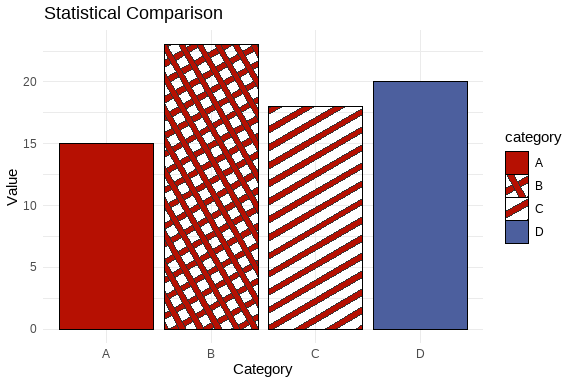
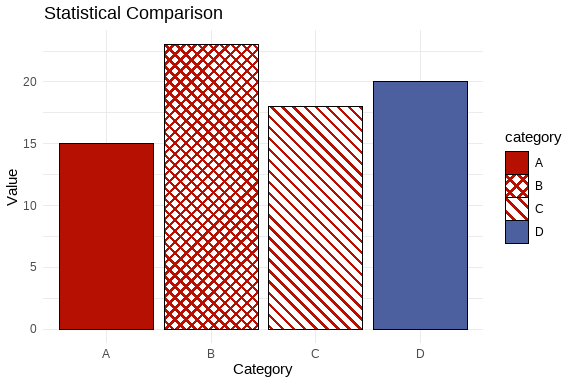
README and Getting Started vignette: use scale_cheysson()
README: "New here" now introduces scale_cheysson() and swatches (it said
a unified API was still in development); the complete-aesthetic, swatch
strip and pattern-bars examples use aes(pattern = ...) + scale_cheysson();
Package Contents lists it. README.md re-knitted; only the three changed
figures differ.

Getting Started: explains swatches before the first pattern example; both
pattern examples use scale_cheysson(); Key Functions lists it.

Changed region(s): [[0.2812, 0.0938, 0.6562, 0.875], [0.875, 0.4375, 0.9375, 0.5625]]

diff --git a/README.md b/README.md
@@ -1,5 +1,6 @@
 
 <!-- README.md is generated from README.Rmd. Please edit that file -->
+
 <!-- badges: start -->
 
 [![CRAN_Status_Badge](https://www.r-pkg.org/badges/version/ggCheysson)](https://cran.r-project.org/package=ggCheysson)
@@ -13,7 +14,7 @@ experimental](https://img.shields.io/badge/lifecycle-experimental-orange.svg)](h
 
 # ggCheysson <img src="man/figures/logo.png" height="200" style="float:right; height:200px;"/>
 
-Version 1.1.0; documentation built 2026-09-28
+Version 1.2.0; documentation built 2026-11-03
 
 The `ggCheysson` package brings the graphical styles of the *Albums de
 Statistique Graphique* to R and ggplot2.
@@ -118,6 +119,7 @@ across the span of years in which the *Albums* were produced, shown
 below.
 
 <center>
+
 <img src="https://raw.githubusercontent.com/friendly/ggCheysson/master/man/figures/maps.png" width=400 alt="Grid of original historical maps from the Albums de Statistique Graphique, showing the variety of colors and hatching patterns used">
 </center>
 
@@ -125,23 +127,20 @@ From these, he abstracted the following combinations of color and
 pattern he thought characterized these maps:
 
 <center>
+
 <img src="man/figures/color-palettes.png" width=600 alt="Swatches of the color and pattern combinations abstracted from the maps above">
 </center>
 
 ### New here
 
-This initial version (1.0.1) of the package defined separate functions
-and `ggplot2` scales for color palettes and shading patterns.
-
-Combining them correctly in one plot took real fixing: the pattern
-scales (`scale_pattern_type_cheysson()`,
-`scale_pattern_fill_cheysson()`) had bugs that silently prevented
-pattern type and color from varying by category at all - now fixed, so
-colors and patterns can be layered together as shown below.
-
-A fully unified API that applies Cheysson’s actual *designed*
-color-pattern pairings in a single call, matching the combined look of
-the original Albums, is still in development.
+In the development version (1.2.0), `scale_cheysson()` (experimental)
+applies Cheysson’s actual *designed* color-pattern pairings in a single
+call. Each element of a palette is a *swatch*, a `ggpattern` pattern
+that draws its fill color, hatch type, line colors, angle and line
+spacing together, so a plot needs only `aes(pattern = x)` and one scale
+(see the examples below, and `vignette("combining-colors-patterns")`).
+The individual pattern scales, `scale_pattern_type_cheysson()` and the
+rest, remain for control over each property.
 
 ## 🚀 Quick Start
 
@@ -217,26 +216,10 @@ data <- data.frame(
   value = c(15, 23, 18, 20)
 )
 
-# Pull the palette's pattern specs directly, so pattern type and hatch
-# color follow the actual data rather than a single fixed pattern
-patterns <- cheysson_pattern("1883_30")
-
-ggplot(data, aes(category, value, fill = category)) +
-  geom_col_pattern(
-    aes(
-      pattern = category,
-      pattern_fill = category,
-      pattern_fill2 = category,
-      pattern_angle = category
-    ),
-    pattern_density = 0.35,
-    color = "black"
-  ) +
-  scale_fill_cheysson_pattern("1883_30") +
-  scale_pattern_manual(values = cheysson_pattern_params(patterns, "pattern_type")) +
-  scale_pattern_fill_manual(values = cheysson_pattern_params(patterns, "pattern_fill")) +
-  scale_pattern_fill2_cheysson("1883_30") +
-  scale_pattern_angle_cheysson("1883_30") +
+# One scale applies the palette's colors, hatch types, angles and spacings together
+ggplot(data, aes(category, value, pattern = category)) +
+  geom_col_pattern(color = "black") +
+  scale_cheysson("1883_30") +
   labs(
     title = "Statistical Comparison",
     x = "Category",
@@ -255,7 +238,9 @@ ggplot(data, aes(category, value, fill = category)) +
 number it was extracted from, and its hex color codes.
 
 <details>
+
 <summary>
+
 <span style="color: blue;"> Click to show/hide the list of all palettes
 </span>
 </summary>
@@ -375,49 +360,49 @@ head(list_cheysson_patterns())
 #> 5 1881_22   category  1881    22          4
 #> 6 1881_30    grouped  1881    30          8
 
-# Get pattern specifications for one palette
+# Each element of a palette is a bundle of properties
 patterns <- cheysson_pattern("1886_24")
+str(patterns[[2]])
+#> List of 7
+#>  $ type             : chr "crosshatch"
+#>  $ fill             : chr "transparent"
+#>  $ pattern_fill     : chr "#b61002"
+#>  $ pattern_color    : chr "#b61002"
+#>  $ pattern_density  : num 0.974
+#>  $ pattern_spacing  : num 0.0263
+#>  $ pattern_linewidth: num 2
 ```
 
 ``` r
-# Display the palette's patterns as swatches
+# Display the palette's elements as swatches
 n <- length(patterns)
-ggplot(data.frame(i = factor(seq_len(n))), aes(i, 1, fill = i)) +
-  geom_col_pattern(
-    aes(pattern = i, pattern_fill = i, pattern_angle = i),
-    pattern_density = 0.35, pattern_spacing = 0.03,
-    color = "black", width = 0.95
-  ) +
-  scale_fill_manual(values = cheysson_pattern_params(patterns, "fill")) +
-  scale_pattern_fill_manual(values = cheysson_pattern_params(patterns, "pattern_fill")) +
-  scale_pattern_manual(values = cheysson_pattern_params(patterns, "pattern_type")) +
-  scale_pattern_angle_manual(values = cheysson_pattern_params(patterns, "pattern_angle")) +
+ggplot(data.frame(i = factor(seq_len(n))), aes(i, 1, pattern = i)) +
+  geom_col_pattern(color = "black", width = 0.95) +
+  scale_cheysson("1886_24") +
   theme_void() +
   theme(legend.position = "none")
 ```
 
 <img src="man/figures/README-pattern-swatches-1.png" alt="" width="100%" />
 
-Use the pattern scales directly in a plot, alongside the matching fill
-scale:
+Use `scale_cheysson()` in a plot to give each category a swatch:
 
 ``` r
 data <- data.frame(category = LETTERS[1:4], value = c(15, 23, 18, 20))
 
-ggplot(data, aes(category, value, fill = category)) +
-  geom_col_pattern(
-    aes(pattern = category, pattern_fill = category),
-    pattern_density = 0.35, color = "black"
-  ) +
-
-    scale_fill_cheysson_pattern("1886_24") +
-  scale_pattern_manual(values = cheysson_pattern_params(patterns, "pattern_type")[1:4]) +
-  scale_pattern_fill_manual(values = cheysson_pattern_params(patterns, "pattern_fill")[1:4]) +
+ggplot(data, aes(category, value, pattern = category)) +
+  geom_col_pattern(color = "black") +
+  scale_cheysson("1886_24") +
   labs(title = "Statistical Comparison", x = "Category", y = "Value") +
   theme_minimal()
 ```
 
 <img src="man/figures/README-pattern-bars-1.png" alt="" width="100%" />
+
+For control over each property separately, use the individual pattern
+scales (`scale_fill_cheysson_pattern()`,
+`scale_pattern_type_cheysson()`, `scale_pattern_fill_cheysson()`, …),
+mapping each aesthetic yourself.
 
 ## ✍ Font Families
 
@@ -435,12 +420,14 @@ Two of these, `CheyssonTitle` and `CheyssonOutlineCaps` are designed to
 be decorative, mainly used in titles
 
 <center>
+
 <img src="man/figures/fonts2.png" height = 200 alt="Sample lettering in the two Cheysson font families: outline capitals, and title">
 </center>
 
 Here are the others:
 
 <center>
+
 <img src="man/figures/fonts1.png" height = 400 alt="Sample lettering in the three Cheysson font families: regular, italic, sans capitals">
 </center>
 
@@ -483,9 +470,11 @@ theme(
 
 ### Pattern Functions
 
+- `scale_cheysson()` - Apply a color-and-pattern palette in one step
+  (experimental)
 - `cheysson_pattern()` - Get pattern specifications
-- `scale_pattern_*_cheysson()` - ggpattern scales for fills, types,
-  angles, densities
+- `scale_pattern_*_cheysson()` - ggpattern scales for single properties:
+  fills, types, angles, densities
 - `list_cheysson_patterns()` - List available pattern palettes
 
 ### Font Functions
@@ -560,7 +549,7 @@ citation("ggCheysson")
 #> To cite package 'ggCheysson' in publications use:
 #> 
 #>   Friendly M (2026). _ggCheysson: Graphic Styles of Emile Cheysson for
-#>   'ggplot2'_. R package version 1.1.0,
+#>   'ggplot2'_. R package version 1.2.0,
 #>   <https://github.com/friendly/ggCheysson>.
 #> 
 #> A BibTeX entry for LaTeX users is
@@ -569,7 +558,7 @@ citation("ggCheysson")
 #>     title = {ggCheysson: Graphic Styles of Emile Cheysson for 'ggplot2'},
 #>     author = {Michael Friendly},
 #>     year = {2026},
-#>     note = {R package version 1.1.0},
+#>     note = {R package version 1.2.0},
 #>     url = {https://github.com/friendly/ggCheysson},
 #>   }
 ```
